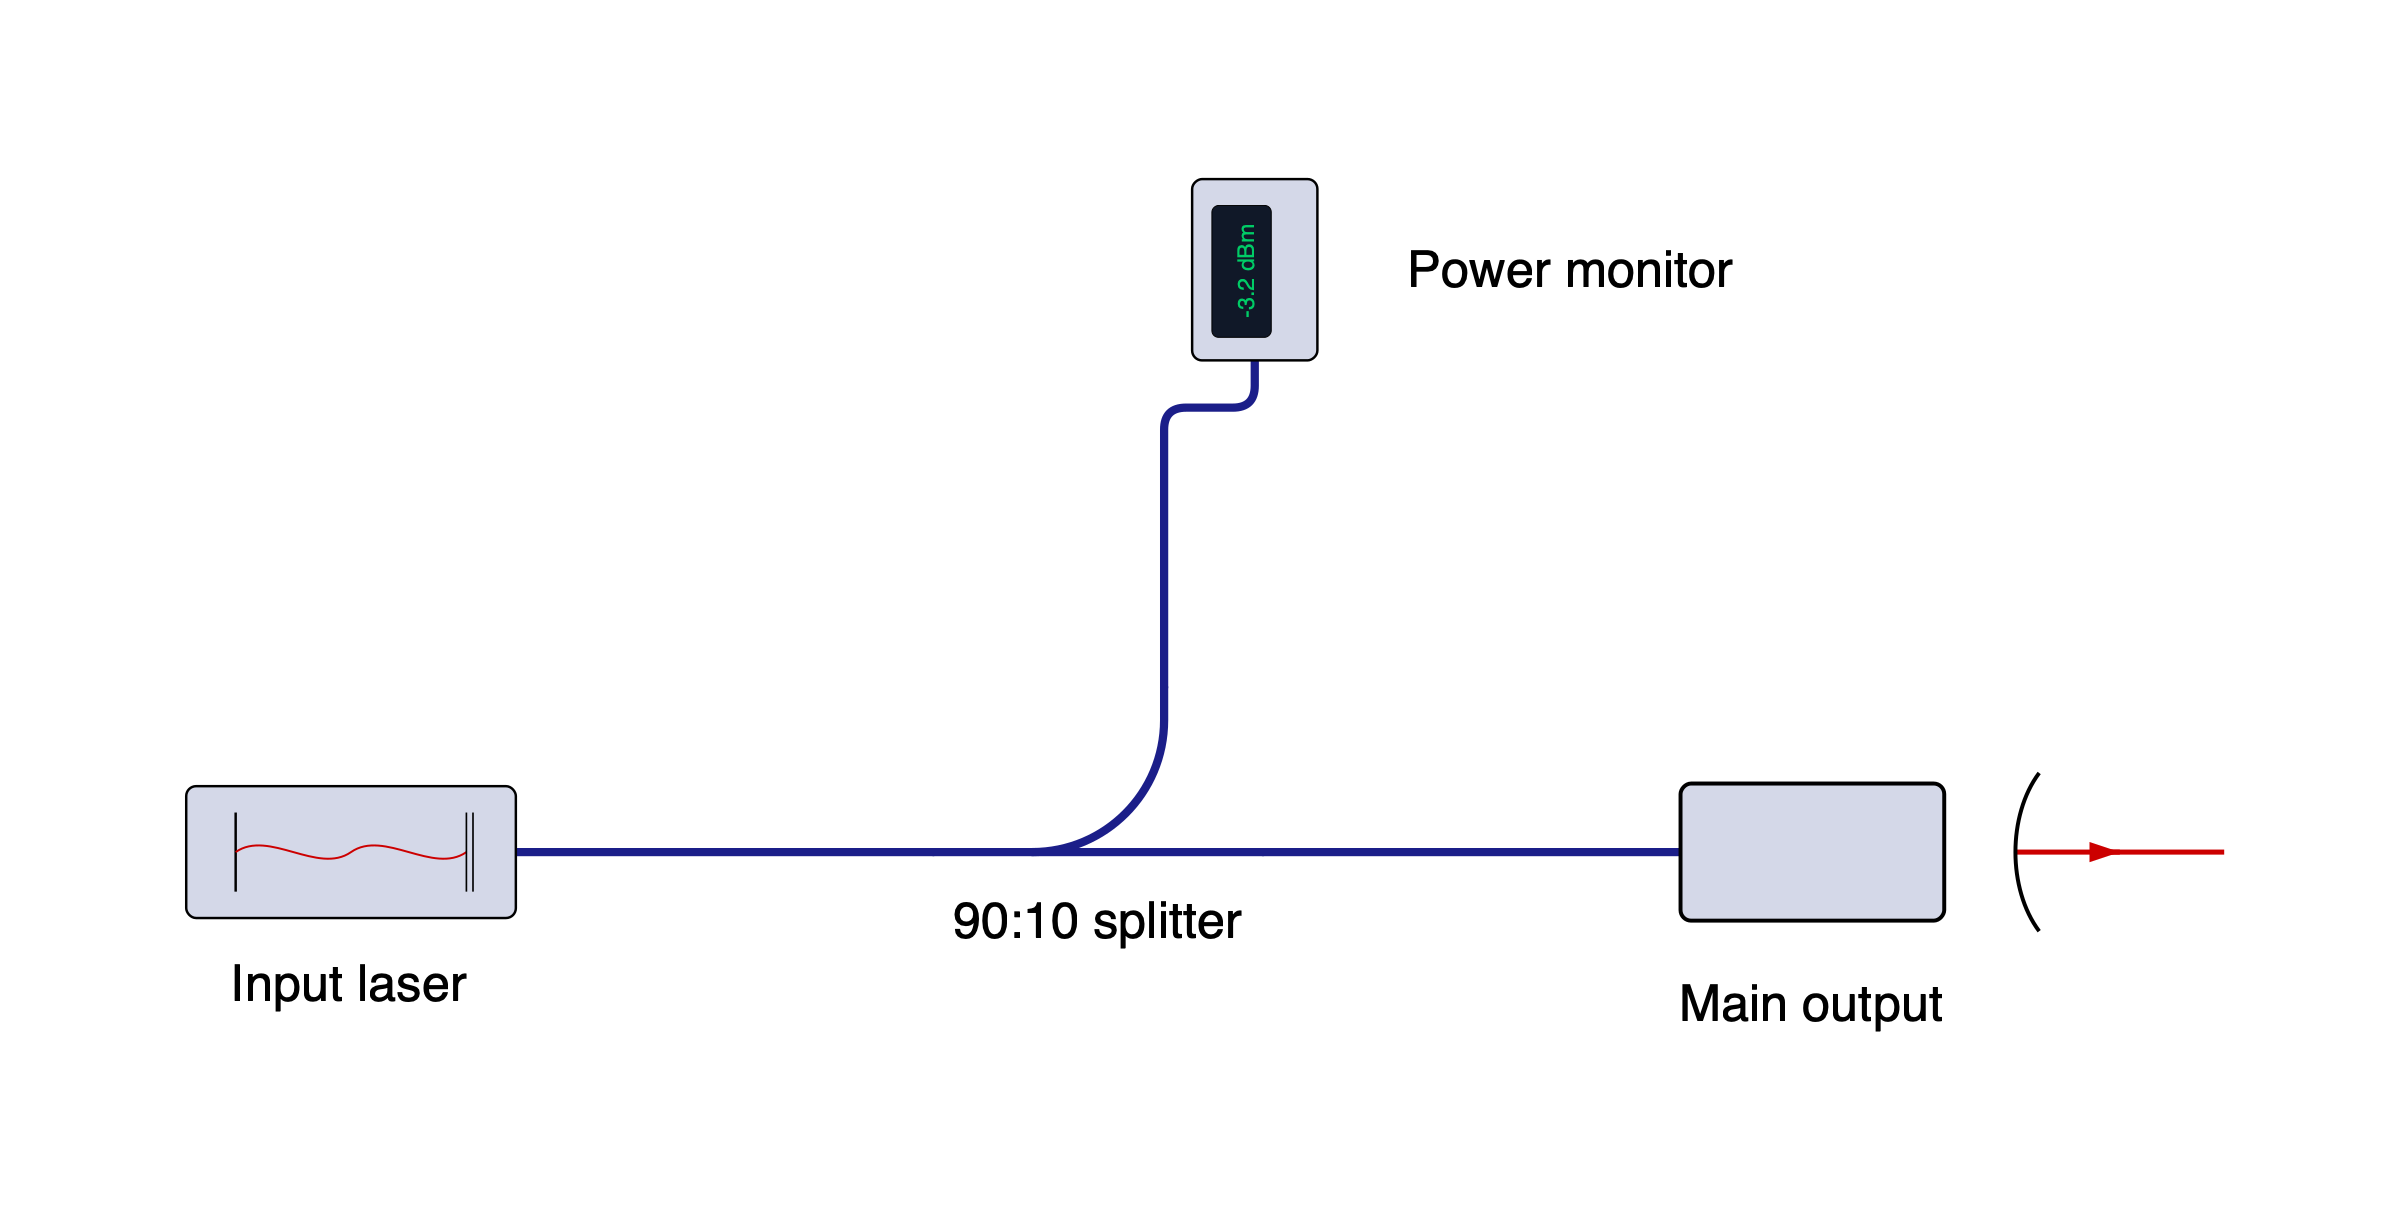
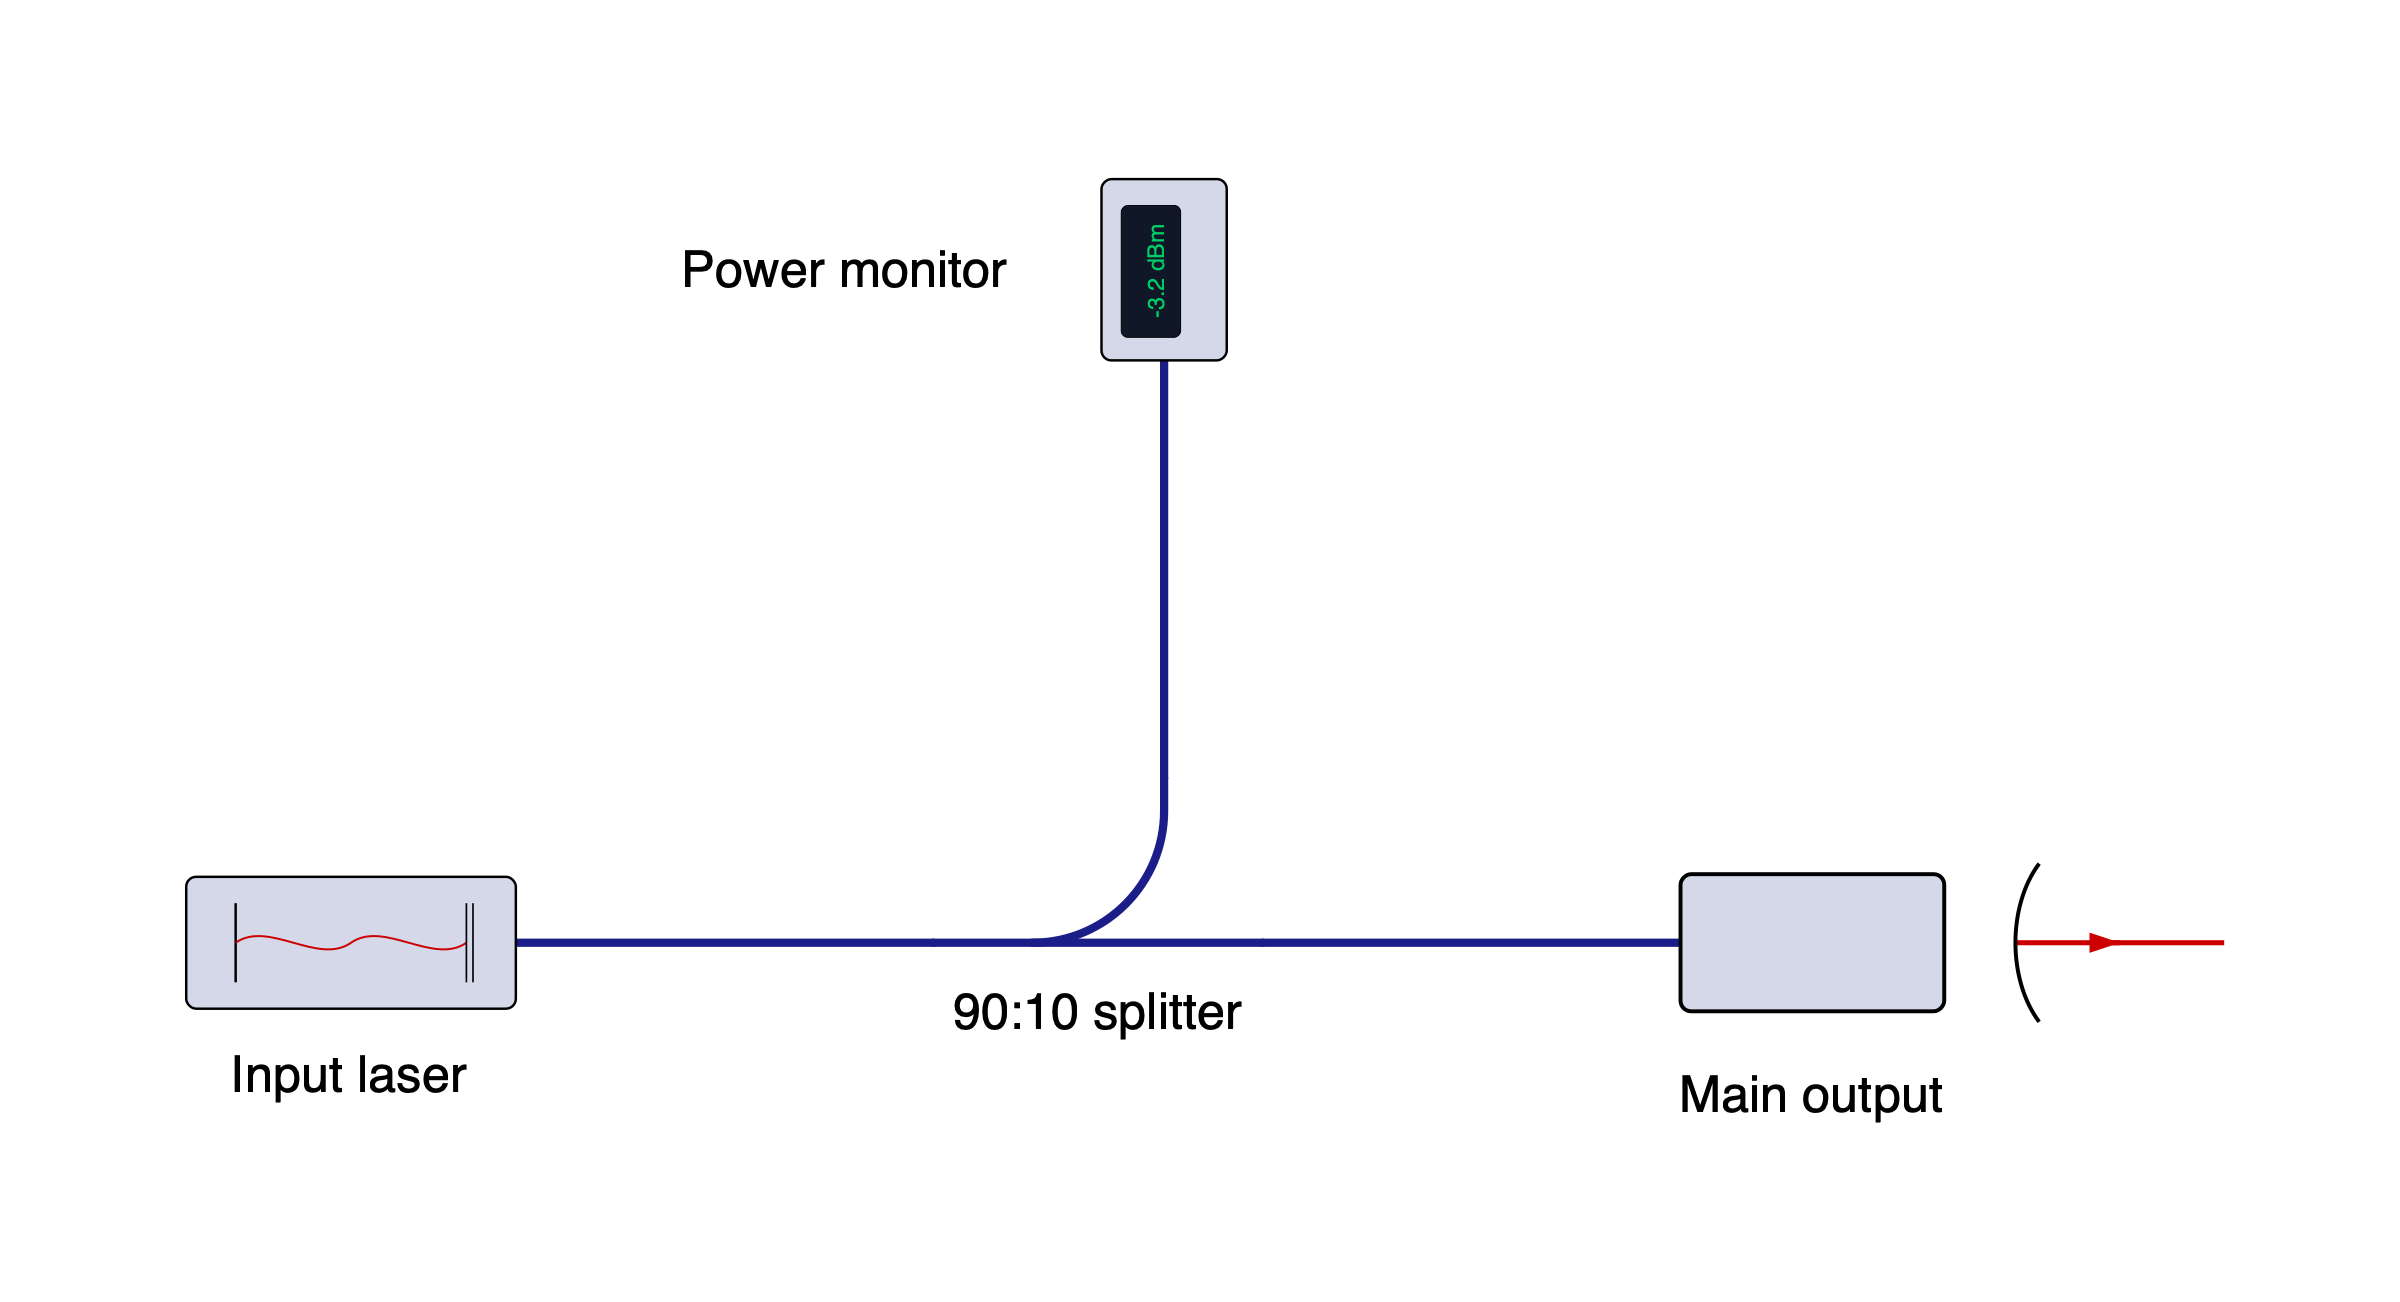
Orient fiber devices before positioning their input ports

diff --git a/tests/test_fiber_power_meter.py b/tests/test_fiber_power_meter.py
@@ -1,11 +1,12 @@
 import json
+import math
 import xml.etree.ElementTree as ET
 
 import pytest
 
 from beampath import (
     ConnectionError, HWP, beam, fiber_laser, fiber_launch, fiber_power_meter,
-    inline_power_meter,
+    fiber_splitter, inline_power_meter,
 )
 from beampath.layout import artwork_point
 from beampath.render import tag
@@ -44,6 +45,33 @@ def test_meter_terminates_connected_path_and_docks_at_housing(position):
     with pytest.raises(ConnectionError, match="ends the beam path"):
         path >> inline_power_meter()
     assert (path.setup.optics, path.setup.connections, path.end) == before
+
+
+@pytest.mark.parametrize("turn", ["left", "right"])
+@pytest.mark.parametrize("rotation", [0, 90, 180, 270])
+def test_unpinned_meter_input_aligns_with_splitter_branch_after_rotation(turn, rotation):
+    angle = math.radians(rotation)
+    split = beam().append(fiber_laser(""))
+    split.append(fiber_splitter("", turn=turn),
+                 at=(250 * math.cos(angle), 250 * math.sin(angle)))
+    ref = split.end
+    split.straight() >> fiber_launch("", heading=rotation)
+    meter_path = split.turn() >> fiber_power_meter("")
+    before = split.setup.optics, split.setup.connections
+    layout = split.layout()
+    route, = [r for r in layout.fibers if r.source == ref.id and r.output == "turn"]
+    assert len(route.points) == 2
+    assert route.length == pytest.approx(layout.style.pitch)
+    junction = layout.placements[ref.id]
+    meter = layout.placements[meter_path.end.id]
+    outward = junction.port_exit_direction("turn")
+    assert meter.port_exit_direction("in") == pytest.approx((outward + 180) % 360)
+    direction = math.cos(math.radians(outward)), math.sin(math.radians(outward))
+    assert route.end == pytest.approx(tuple(route.start[i] + layout.style.pitch * direction[i]
+                                           for i in (0, 1)))
+    assert meter.instance.at is None and meter.instance.heading is None
+    assert (split.setup.optics, split.setup.connections) == before
+    assert split.layout() == layout
 
 
 @pytest.mark.parametrize("heading", [0, 270, 31.7])

diff --git a/src/beampath/fiber_layout.py b/src/beampath/fiber_layout.py
@@ -179,6 +179,18 @@ def _place(setup, style):
             lane = branches.index(edge)
             lane = ((lane + 1) // 2) * (1 if lane % 2 else -1) if lane else 0
             target_component = block[edge.target]
+            if len(block) == 1 and target_component.instance.heading is None:
+                # Orient an unpinned fiber device before positioning its input.
+                # Rotating an offset input after placement creates a needless
+                # sideways jog and changes the intended connector-to-connector gap.
+                desired = (source.port_exit_direction(edge.output) + 180
+                           - target_component.instance.port(edge.input).exit_direction) % 360
+                rotation = min(dict.fromkeys((target_component.rotation, 0, 90, 180, 270)),
+                               key=lambda r: abs((r - desired + 180) % 360 - 180))
+                target_component = replace(target_component, rotation=rotation,
+                                           bounds=translated(footprint(target_component.instance, rotation),
+                                                             target_component.position))
+                block = {edge.target: target_component}
             origin = source.port_position(edge.output)
             target = target_component.port_position(edge.input)
             # Like free-space edges, pitch measures the gap between ports.
